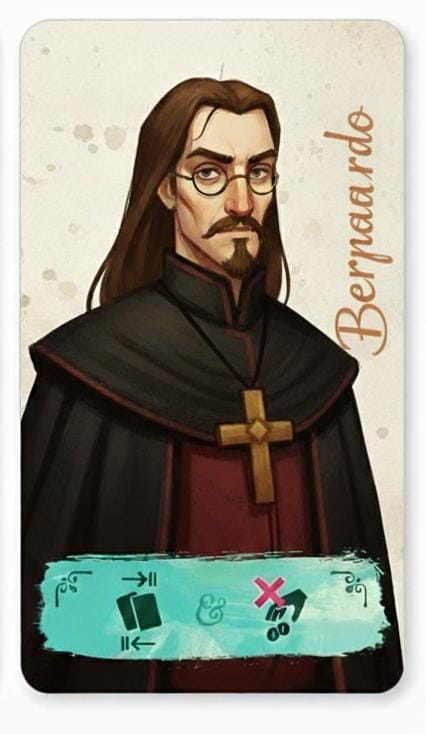
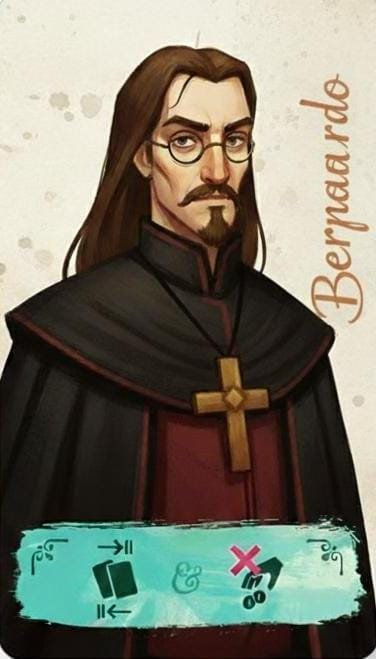
feat: adiciona fotos, fundo branco na carta e muda de actual_wins para current_wins

diff --git a/src/components/PlayerCard.tsx b/src/components/PlayerCard.tsx
@@ -3,7 +3,7 @@ import { Trophy } from "lucide-react";
 interface PlayerCardProps {
   name: string;
   total_wins: number;
-  actual_wins: number;
+  current_wins: number;
   trophies: number;
   path: string;
   className?: string;
@@ -12,7 +12,7 @@ interface PlayerCardProps {
 const PlayerCard = ({
   name,
   total_wins,
-  actual_wins,
+  current_wins,
   trophies,
   path,
   className,
@@ -30,7 +30,7 @@ const PlayerCard = ({
         </div>
 
         {/* Verso */}
-        <div className="bg-card-back absolute inset-0 flex [transform:rotateY(180deg)] flex-col items-center justify-center gap-2 rounded-xl text-center shadow-lg backface-hidden">
+        <div className="bg-card-back bg-white absolute inset-0 flex [transform:rotateY(180deg)] flex-col items-center justify-center gap-2 rounded-xl text-center shadow-lg backface-hidden">
           <h1 className="text-foreground w-32 truncate text-lg font-bold">
             {name}
           </h1>
@@ -41,7 +41,7 @@ const PlayerCard = ({
           <span className="text-muted-foreground text-xs">
             Vitórias Totais: {total_wins}
             <br />
-            Vitórias Atuais: {actual_wins}
+            Vitórias Atuais: {current_wins}
           </span>
         </div>
       </div>

diff --git a/src/pages/HomePage.tsx b/src/pages/HomePage.tsx
@@ -7,7 +7,7 @@ import { Crown } from "lucide-react";
 const HomePage = () => {
   // Ordenar por vitórias atuais
   const sortedPlayers = [...playersData].sort(
-    (a, b) => b.actual_wins - a.actual_wins,
+    (a, b) => b.current_wins - a.current_wins,
   );
 
   // Separar pódio e restante
@@ -29,7 +29,7 @@ const HomePage = () => {
             )}
 
             {podium[0] && (
-              <div className="flex flex-col items-center">
+              <div className="flex flex-col items-center gap-2">
                 <div className="mb-6 text-sm font-semibold text-yellow-500">
                   <Crown size="64px" />
                 </div>
